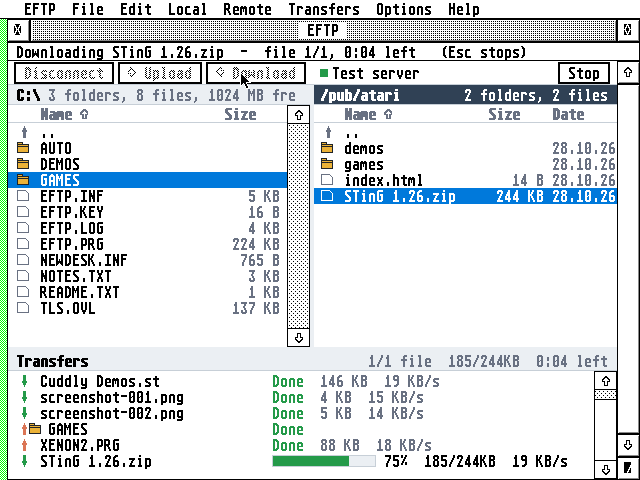
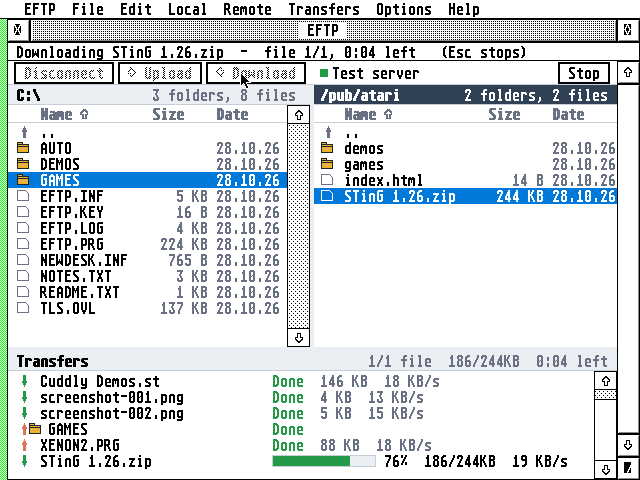
Pane header loses whole parts, not letters; the date column at 32 columns
On the 640x480 Falcon window the local pane's header read "3 folders,
8 files, 1024 MB fre" and the pane had no Date column: since its text
starts on a multiple of 8 (win_x0, for TOS's fast text) it has 33
columns, one short of the 34 the date asked for. The 24 Oct pictures
had both.

- draw_header: an info too long for the header drops its last ", ..."
  parts whole ("3 folders, 8 files"), and is cut only when its first
  part alone doesn't fit.
- columns: the short date (13.10.26) shows from 32 columns, where the
  name still keeps 12, TOS's 8+3.

The docs pictures are retaken with it (screenshots.py, Falcon:256 and
ST-1:mono).

AESGAP (speed rig), before -> after; on ST:mono the local pane had its
date already:
  ST:mono      every action within 15 ms either way (the rig's 5 ms
               steps): started 1270 -> 1270, whole window 645 -> 645,
               local folder of 300 355 -> 370, a page 265 -> 270
  Falcon-4:16  the local pane now draws its dates:
               started: its window drawn       435 -> 455 ms  (2000)
               main window drawn whole         210 -> 225 ms  (300)
               Esc: both lists read again       35 ->  45 ms  (300)
               a line scrolled                  55 ->  60 ms  (50, over before)
               a page scrolled                 105 -> 120 ms  (150)
               window resized smaller          270 -> 280 ms  (300)
               window resized larger           270 -> 285 ms  (300)
[…]

Changed region(s): [[0.25, 0.2812, 0.4375, 0.6562], [0.0625, 0.1875, 0.4688, 0.25]]

diff --git a/ui/win.c b/ui/win.c
@@ -472,6 +472,16 @@ static void draw_header(WIN *w)
 	fill(&h, dark ? pen[P_HEAD] : pen[P_PANEL]);
 	if (tl > cols - 2)
 		tl = cols - 2;
+	/* an info too long loses its last parts whole ("3 folders, 8 files,
+	   1024 MB free" without the free room), not letters off its end */
+	while (il > cols - tl - 2) {
+		short k = il;
+		while (k > 0 && !(w->info[k - 1] == ',' && w->info[k] == ' '))
+			k--;
+		if (k <= 0)
+			break;
+		il = k - 1;
+	}
 	if (il > cols - tl - 2)
 		il = cols - tl - 2;
 	bold_at(text_x(h.x + 2), h.y + 2, w->title, tl, cols, TX_LTR | (dark ? TX_INVERSE : 0),

diff --git a/ui/files.c b/ui/files.c
@@ -409,7 +409,8 @@ static void columns(WIN *w, COLS *c)
 	short cols = win_cols(w);
 	c->icon = 0;
 	c->name = 3;
-	c->dw = cols >= 50 ? 14 : cols >= 34 ? 8 : 0;	/* "13.10.26 18:56", or the date */
+	/* "13.10.26 18:56", or the date while the name keeps 12 (TOS's 8+3) */
+	c->dw = cols >= 50 ? 14 : cols >= 32 ? 8 : 0;
 	c->size = cols >= 26 ? 7 : 0;
 	c->nw = cols - c->name - (c->size ? c->size + 1 : 0) - (c->dw ? c->dw + 1 : 0);
 	if (c->nw < 6)
